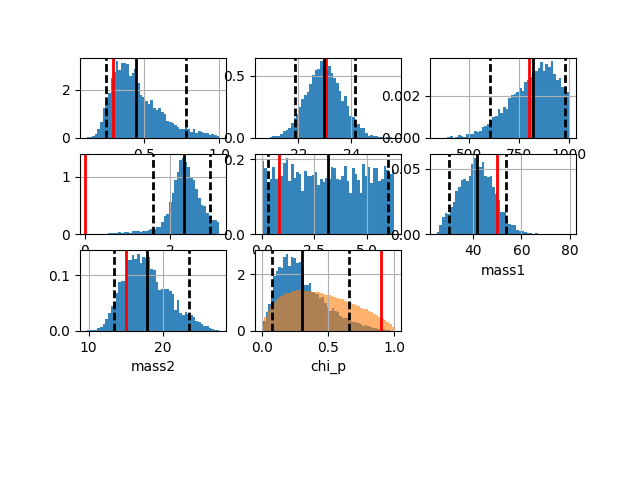
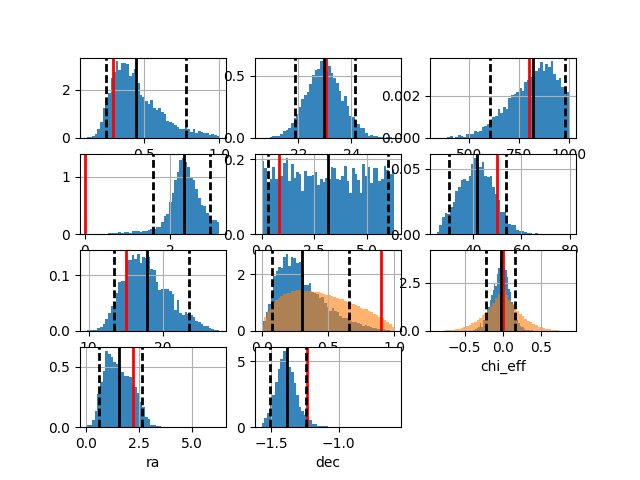
Mega posteriors fixing

diff --git a/Inference/paper_posts.py b/Inference/paper_posts.py
@@ -265,7 +265,7 @@ def plotPosterior(parameter):
 
 plt.figure()
 ## Plot loop
-for aa in range(1,9):
+for aa in range(1,12):
    plt.subplot(4,3,aa)
    plotPosterior(params[aa-1])
 plt.savefig("figures/%s_fullpost.png" % run)
